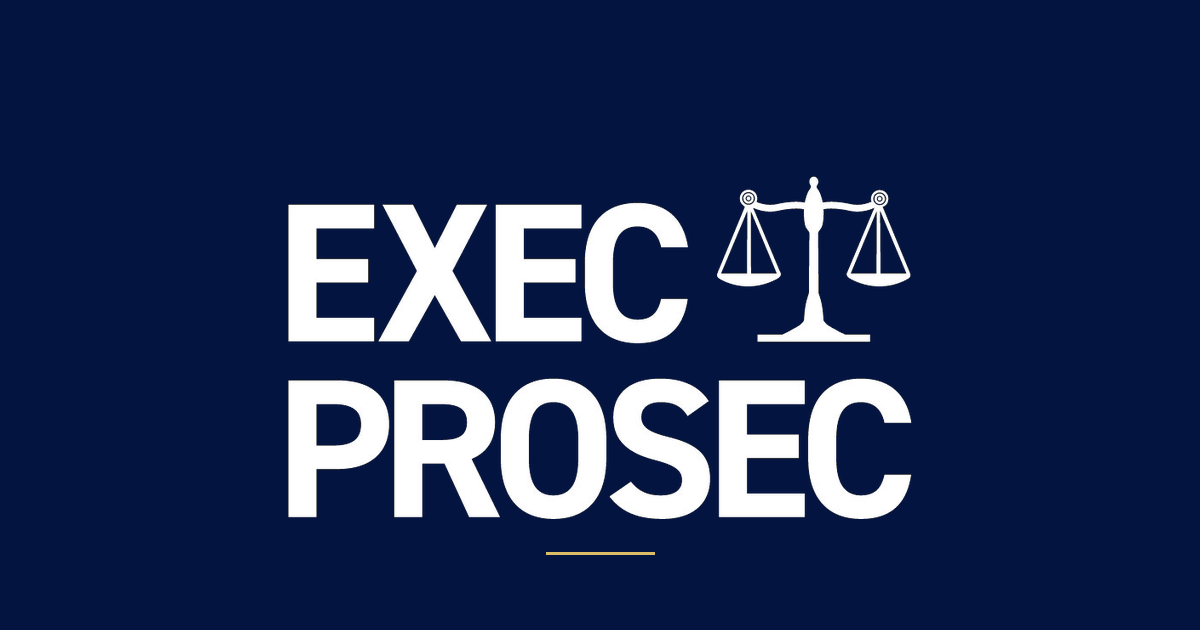
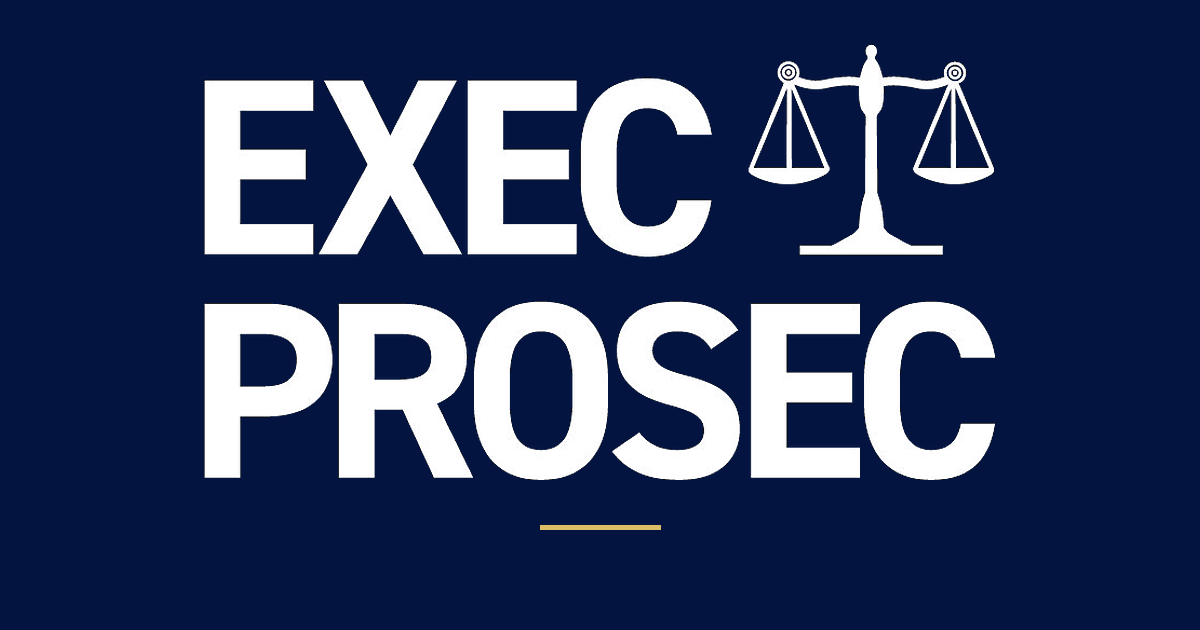
One footer instead of two, and a bigger, sharper sharing image on .org
The home page repeated the registration lines in two blocks with wide gaps.
There is now a single footer on every page.

The sharing image had the wordmark at just over half the width, so it shrank
to almost nothing when WhatsApp cropped the preview. The mark now fills two
thirds, sharpened, and a square version is offered for apps that crop to one.

Changed region(s): [[0.1542, 0.0603, 0.8325, 0.8444], [0.4625, 0.8746, 0.555, 0.9048]]

diff --git a/index.html b/index.html
@@ -1395,13 +1395,15 @@ a.contact-v:hover{color:var(--gold)}
 <meta property="og:site_name" content="ExecProsec">
 <meta property="og:title" content="No one should be above the criminal law">
 <meta property="og:description" content="A crowdfunded institution that investigates, exposes and privately prosecutes the most powerful and abusive private and public sector executives in the United Kingdom.">
-<meta property="og:image" content="https://execprosec.com/_web/brand/share-og.png">
+<meta property="og:image" content="https://execprosec.org/_web/brand/share-og.png">
 <meta property="og:image:width" content="1200">
 <meta property="og:image:height" content="630">
+<meta property="og:image" content="https://execprosec.org/_web/brand/share-square.png">
+<meta property="og:url" content="https://execprosec.org/">
 <meta name="twitter:card" content="summary_large_image">
 <meta name="twitter:title" content="No one should be above the criminal law">
 <meta name="twitter:description" content="A crowdfunded institution that investigates, exposes and privately prosecutes the most powerful and abusive private and public sector executives in the United Kingdom.">
-<meta name="twitter:image" content="https://execprosec.com/_web/brand/share-og.png">
+<meta name="twitter:image" content="https://execprosec.org/_web/brand/share-og.png">
 <link rel="canonical" href="https://execprosec.org/">
 <script>
 /* .org is the address for this site; anyone arriving on .com is moved across, keeping their path and anything after it */
@@ -1438,6 +1440,12 @@ a.contact-v:hover{color:var(--gold)}
 .site-foot{display:block;text-align:center;padding:22px 18px 40px;
   font:400 12px/1.9 'DM Sans',sans-serif;letter-spacing:.05em;color:rgba(255,255,255,.38)}
 @media(max-width:640px){ .site-legal{margin-left:18px;margin-right:18px} }
+</style>
+<style>
+.site-foot{padding:30px 18px 38px;line-height:1.65}
+.site-foot .sf-line{display:block;max-width:640px;margin:0 auto}
+.site-foot .sf-note{margin-top:10px}
+.site-foot .sf-line:last-child{margin-top:10px}
 </style>
 </head>
 <body>
@@ -1575,7 +1583,7 @@ a.contact-v:hover{color:var(--gold)}
         <span class="arrow" style="-webkit-text-stroke:0.7px currentColor">&#8594;</span>
       </button>
     </div>
-    <footer class="site-legal"><p>&copy; 2026 ExecProsec Ltd. All rights reserved.</p><p>Funded entirely by the public.</p><p>Registered in England and Wales<br>10520032</p><p>Nothing on this website is legal advice, and nothing on it creates a solicitor-client or any other professional relationship.</p></footer>
+    
 
 
   </div>
@@ -2518,6 +2526,8 @@ a.contact-v:hover{color:var(--gold)}
     <span class="sf-line">ExecProsec Ltd &middot; Not-for-profit &middot; Funded entirely by the public</span>
     <span class="sf-line">Registered in England and Wales</span>
     <span class="sf-line sf-num">10520032</span>
+    <span class="sf-line sf-note">Nothing on this website is legal advice, and nothing on it creates a solicitor-client or any other professional relationship.</span>
+    <span class="sf-line">&copy; 2026 ExecProsec Ltd. All rights reserved.</span>
   </footer>
 
 </div>
